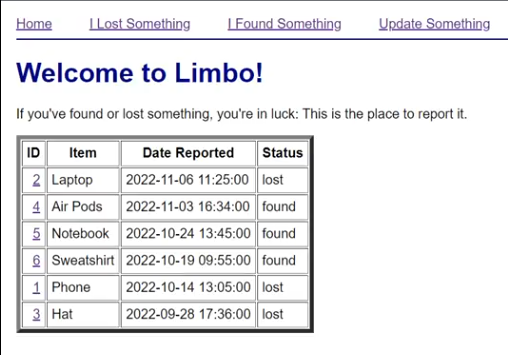
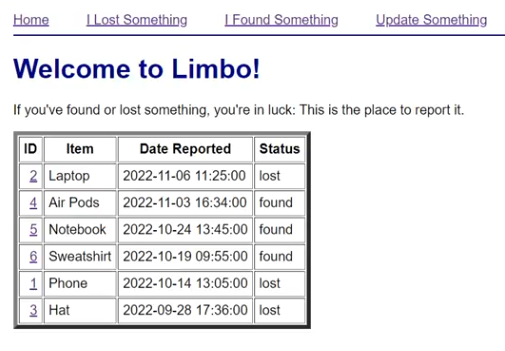
font size edit, clean images

diff --git a/style.css b/style.css
@@ -1,6 +1,7 @@
 body {
     font-family: Georgia, 'Times New Roman', Times, serif;
-    font-size: 18px;
+    /* font-size: 18px; */
+    font-size: 13.5pt;
     padding: 10px;
 
     /*image*/
@@ -18,14 +19,15 @@ body {
     box-shadow: 0px 0px 10px 2px rgb(0, 0, 0, .50);
     margin-left: auto;
     margin-right: auto;
-    margin-bottom: 100px;
+    margin-bottom: 20px;
     padding: 30px 45px 30px 45px;
 }
 
 h1 {
     /*background-color: brown;*/
     margin:0px;
-    font-size: 55px;
+    /* font-size: 55px; */
+    font-size: 42pt;
     font-family: Georgia, 'Times New Roman', Times, serif;
 }
 
@@ -34,7 +36,8 @@ h1 {
     margin-bottom: 20px;
     font-family: Georgia, 'Times New Roman', Times, serif;
 
-    font-size: 40px;
+    /* font-size: 40px; */
+    font-size: 30pt;
     text-align: center;
     margin-bottom: 10;
 }
@@ -83,7 +86,8 @@ a:active {
     /*background-color: orange;*/
     margin: 0;
     min-width: 440px;
-    font-size: 30px;
+    /* font-size: 30px; */
+    font-size: 24pt;
     font-weight:bolder;
 }
 .subtitle {
@@ -91,7 +95,8 @@ a:active {
     margin: 0;
     font-weight:bold;
     color: rgb(50, 50, 50);
-    font-size: 18px;
+    /* font-size: 18px; */
+    font-size: 15pt;
     font-family: Georgia, 'Times New Roman', Times, serif;
 }
 .date {
@@ -103,7 +108,8 @@ a:active {
     text-align: right;
     /*font-weight: normal;
     color: rgb(50, 50, 50);*/
-    font-size: 18px;
+    /* font-size: 18px; */
+    font-size: 15pt;
 
 }
 
@@ -201,5 +207,6 @@ hr {
     box-shadow: 0px 0px 10px 2px rgb(0, 0, 0, .50);
     margin-left: auto;
     margin-right: auto;
+    margin-top: 0px;
     padding: 10px 45px 10px 45px;
 }

diff --git a/index.html b/index.html
@@ -363,9 +363,7 @@
             </div>
         </div>
         
-
-        <br><br>
-        <div id="footer">&copy; Aidan Carr April 22, 2025 ~ Background photograph by Sam Lavitt</div>
+        <div id="footer">&copy; Aidan Carr April 25, 2025 ~ Background photograph by Sam Lavitt</div>
     </body>
 
     <!--
